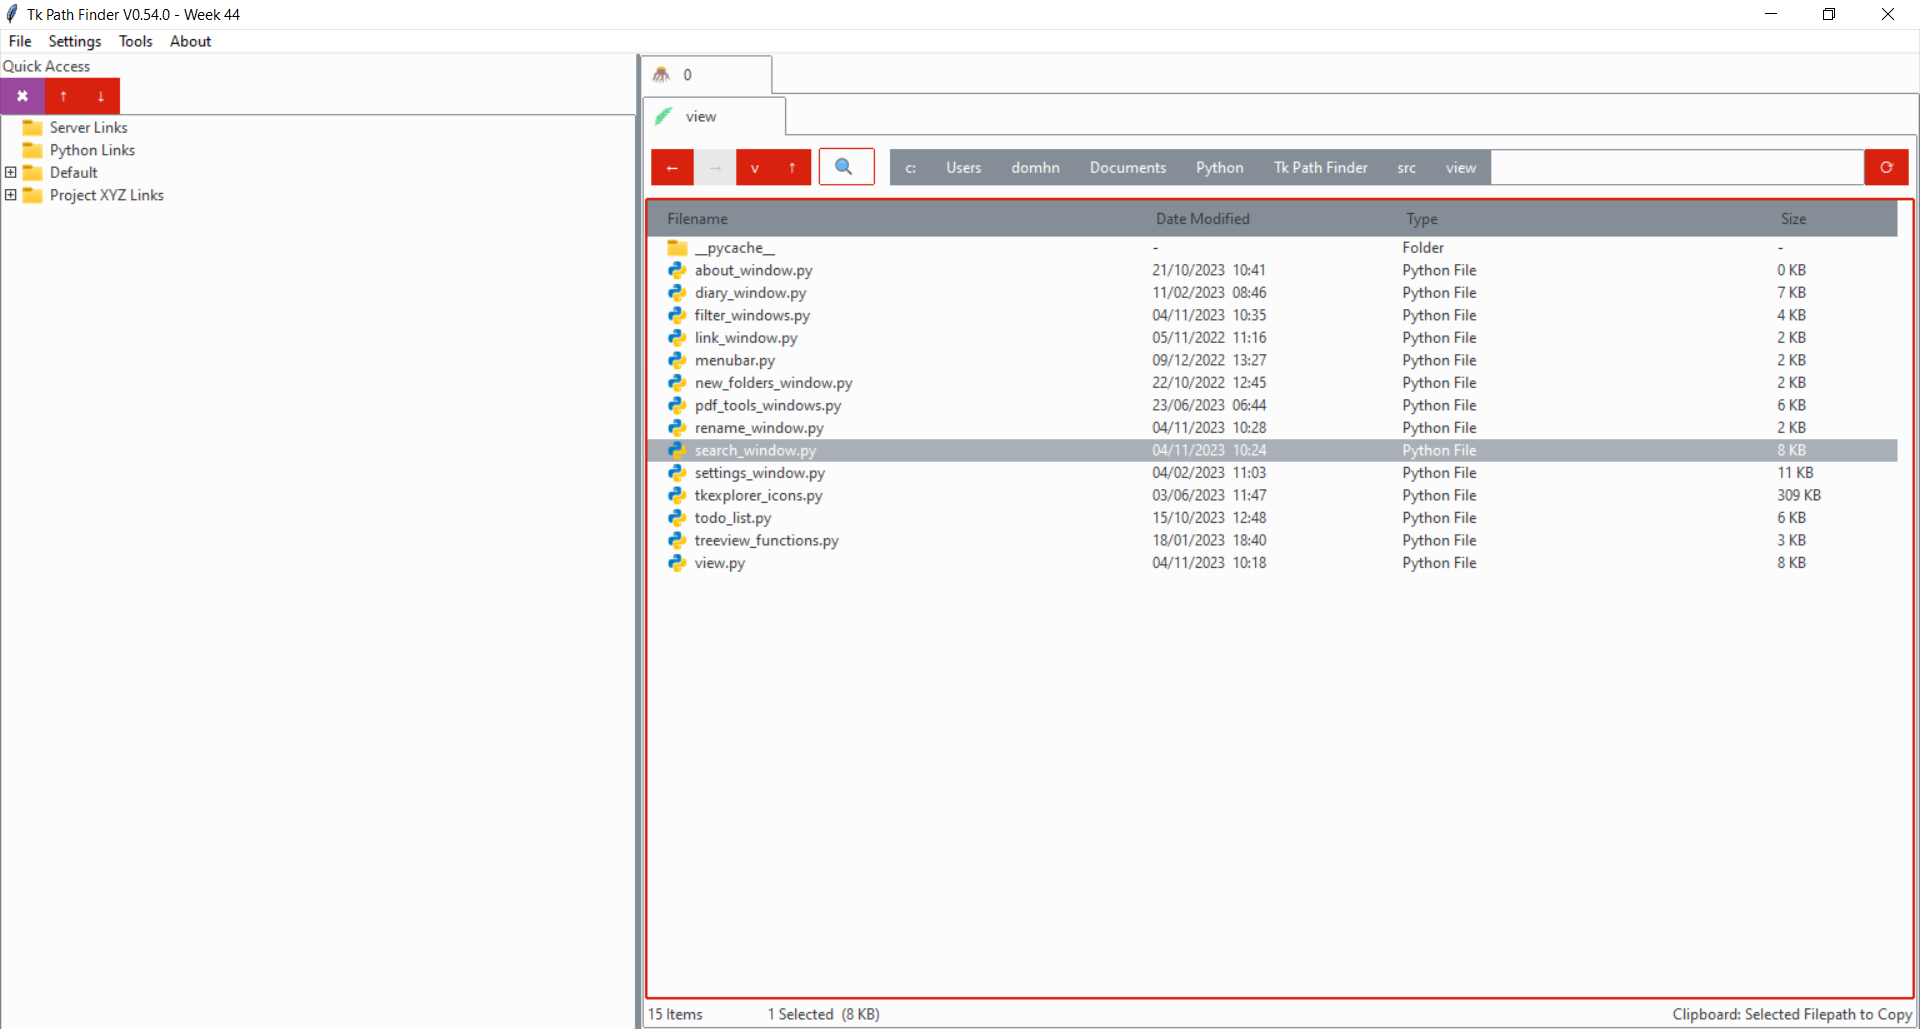
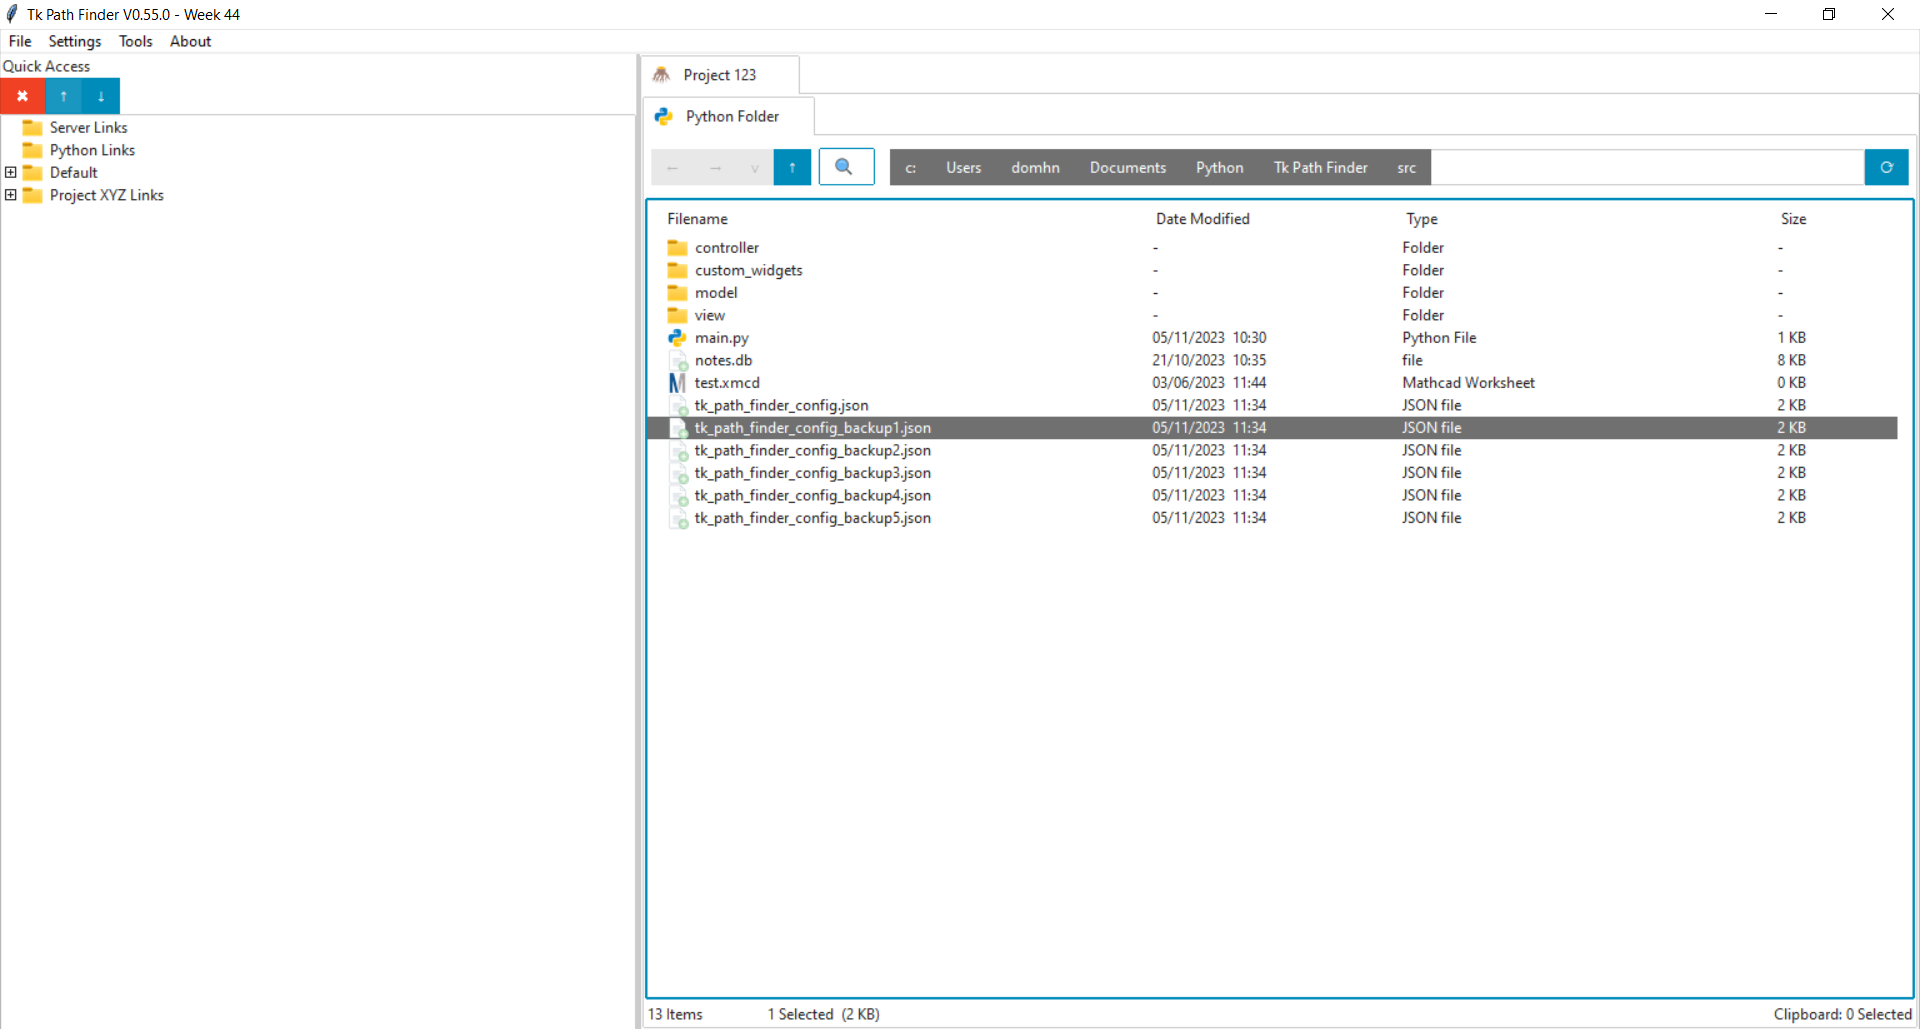
V0.55.0

Changed region(s): [[0.3125, 0.0622, 1.0, 1.0], [0.0, 0.0622, 0.0625, 0.1244]]

diff --git a/src/controller/controller.py b/src/controller/controller.py
@@ -18,7 +18,7 @@ from ttkbootstrap.themes import standard
 
 from model import config_file_manager, model
 from view import view, diary_window, filter_windows, new_folders_window, pdf_tools_windows, rename_window, settings_window
-from view import link_window, search_window, todo_list
+from view import link_window, search_window, todo_list, icon_window
 
 class Controller:
 	def __init__(self, root, parent, mainapp):
@@ -48,14 +48,14 @@ class Controller:
 			
 		return root_id
 			
-	def add_branch_tab(self, root_id, default_text=None, default_directory=None):
+	def add_branch_tab(self, root_id, default_text=None, default_directory=None, default_icon=None):
 		if default_directory is None:
 			default_directory = os.getcwd()
 			
 		# ----------------- ADD A SINGLE DEFAULT BRANCH TAB -----------------
-		id_key = self.model.add_branch_tab(root_id, default_text, default_directory)
+		id_key = self.model.add_branch_tab(root_id, default_text, default_directory, default_icon)
 		
-		self.view.add_branch_tab(id_key, self.model.get_branch_tab_text(id_key), root_id)
+		self.view.add_branch_tab(id_key, self.model.get_branch_tab_text(id_key), root_id, default_icon)
 		
 		# ----------------- UPDATE BRANCH TAB VIEW -----------------
 		self.view.update_branch_tab(copy.deepcopy(self.model.branch_tabs[id_key].assemble_view_data()))
@@ -489,11 +489,16 @@ class Controller:
 						for branch_id in session_data[root_id]["branch_tabs"].keys():
 							default_text = session_data[root_id]["branch_tabs"][branch_id]["text"]
 							default_directory = session_data[root_id]["branch_tabs"][branch_id]["directory"]
+
+							if "icon" in session_data[root_id]["branch_tabs"][branch_id].keys():
+								default_icon = session_data[root_id]["branch_tabs"][branch_id]["icon"]
+							else:
+								default_icon = None
 							
 							if default_directory in missing_directories:
 								default_directory = None
 								
-							self.add_branch_tab(new_root_id, default_text, default_directory)
+							self.add_branch_tab(new_root_id, default_text, default_directory, default_icon)
 	
 	def check_load_last_session_folders_exist(self, session_data):
 		missing_directories = []
@@ -610,8 +615,8 @@ class Controller:
 	def update_branch_tabs_order(self, root_id, branch_tabs_order):
 		self.model.update_branch_tabs_order(root_id, branch_tabs_order)
 	
-	def update_style(self, style):
-		self.view.switch_style(style)
+	def update_style(self, style, style_type):
+		self.view.switch_style(style, style_type)
 		self.model.style_updated(style)
 		
 	def duplicate_files(self, files, branch_id):
@@ -658,3 +663,13 @@ class Controller:
 				self.view.show_success("Successfully Extracted")
 			except Exception as e:
 				self.view.show_error(f"The Following Error Occured\n{str(e)}")
+
+	def change_tab_icon(self, root_id, branch_id):
+		icon_window.launch_icon_window(self)
+
+		if self.w.button == "ok":
+			branch_tab = self.view.branch_tabs[branch_id]
+			branch_tab.update_icon(self.w.extension)
+
+			self.model.branch_tabs[branch_id].icon_extension = self.w.extension
+			self.model.update_branch_tab_session_data(branch_id)

diff --git a/src/view/view.py b/src/view/view.py
@@ -27,7 +27,11 @@ class View:
 		
 		menubar.setup_menubar(self)
 		
-		self.switch_style(self.style_name)
+		if self.style_name in self.themes["light"]:
+			style_type = "light"
+		else:
+			style_type = "dark"
+		self.switch_style(self.style_name, style_type)
 
 	def setup_variables(self):
 		self.known_file_types = {
@@ -62,6 +66,7 @@ class View:
 			".xlsx": self.excel_icon2,
 			".xmcd": self.mathcad_icon2,
 			".zip": self.zip_icon2,
+			".xxx": self.branch_icon2, # dummy extension, just intended to get the branch icon in this dict for change icon window
 		}
 		
 		self.root_tabs = {}
@@ -113,13 +118,16 @@ class View:
 
 		self.root_tabs[id] = tab
 		
-	def add_branch_tab(self, id, text, root_id):
+	def add_branch_tab(self, branch_id, text, root_id, default_icon):
 		root_tab = self.root_tabs[root_id]
 		
-		tab = branch_tab.BranchTab(self, id, root_tab)
+		tab = branch_tab.BranchTab(self, branch_id, root_tab)
 		root_tab.add_branch_tab(tab, text)
 		
-		self.branch_tabs[id] = tab
+		self.branch_tabs[branch_id] = tab
+
+		if default_icon is not None:
+			self.branch_tabs[branch_id].update_icon(default_icon)
 		
 	def setup_default_settings(self, config_data):
 		# --------------- PADX AND PADY ---------------
@@ -168,8 +176,9 @@ class View:
 		finally:
 			popup_menu.grab_release()
 
-	def switch_style(self, style):
+	def switch_style(self, style, style_type):
 		self.style_name = style
+		self.style_type = style_type
 		
 		try:
 			self.style = Style(style)
@@ -181,7 +190,8 @@ class View:
 				messagebox.showerror("Error", message=f"The following message occured {str(e)}")
 		
 		self.style.configure('Treeview', rowheight=18)
-		self.style.configure('Treeview.Heading', background=self.style.colors.secondary)
+		if style_type == "dark":
+			self.style.configure('Treeview.Heading', background=self.style.colors.secondary)
 		
 		# Update hover color in treeviews
 		for tab in self.branch_tabs.keys():
@@ -195,7 +205,8 @@ class View:
 		return answer
 		
 	def delete_all_tabs(self):
-		for root_id in self.root_tabs:
+		root_ids = list(self.root_tabs.keys())
+		for root_id in root_ids:
 			self.delete_root_tab(root_id)
 		self.root_tabs = {}
 		self.branch_tabs = {}	

diff --git a/src/custom_widgets/root_tab.py b/src/custom_widgets/root_tab.py
@@ -27,10 +27,13 @@ class RootTab(ttk.Frame):
 		branch_id = tab_object.branch_id
 		
 		popup_menu = tk.Menu(event.widget, tearoff=0)
-		popup_menu.add_command(label="Add Branch Tab", command=lambda root_id=self.root_id: self.view.controller.add_branch_tab(root_id), image=self.view.branch_icon2, compound='left')
-		popup_menu.add_command(label="Rename Branch Tab", command=lambda branch_id=branch_id: self.view.controller.rename_branch_tab(branch_id), image=self.view.edit_icon2, compound='left')
-		popup_menu.add_command(label="Delete Branch Tab", command=lambda root_id=self.root_id, branch_id=branch_id: self.view.controller.delete_branch_tab(root_id, branch_id), image=self.view.delete_icon2, compound='left')
-		popup_menu.add_command(label="Duplicate Branch Tab", command=lambda root_id=self.root_id, branch_id=branch_id: self.view.controller.duplicate_branch_tab(root_id, branch_id), image=self.view.duplicate_icon2, compound='left')
+		popup_menu.add_command(label="Add Branch Tab", command=lambda root_id=self.root_id: self.view.controller.add_branch_tab(root_id), image=self.view.branch_icon2, compound="left")
+		popup_menu.add_command(label="Rename Branch Tab", command=lambda branch_id=branch_id: self.view.controller.rename_branch_tab(branch_id), image=self.view.edit_icon2, compound="left")
+		popup_menu.add_command(label="Delete Branch Tab", command=lambda root_id=self.root_id, branch_id=branch_id: self.view.controller.delete_branch_tab(root_id, branch_id), image=self.view.delete_icon2, compound="left")
+		popup_menu.add_command(label="Duplicate Branch Tab", command=lambda root_id=self.root_id, branch_id=branch_id: self.view.controller.duplicate_branch_tab(root_id, branch_id), image=self.view.duplicate_icon2, compound="left")
+
+		popup_menu.add_separator()
+		popup_menu.add_command(label="Change Icon", command=lambda root_id=self.root_id, branch_id=branch_id: self.view.controller.change_tab_icon(root_id, branch_id))
 
 		try:
 			popup_menu.tk_popup(event.x_root, event.y_root, 0)

diff --git a/src/view/icon_window.py b/src/view/icon_window.py
@@ -1,0 +1,59 @@
+import tkinter as tk
+from tkinter import *
+from tkinter import ttk
+from tkinter.ttk import *
+from tkinter import messagebox
+
+def launch_icon_window(controller):
+	master = controller.mainapp.root
+	controller.w = IconWindow(master, controller.view)
+	master.wait_window(controller.w.top)
+
+class IconWindow(ttk.Frame):
+	def __init__(self, master, view):
+		super(IconWindow, self).__init__()
+		top=self.top=Toplevel(master)
+		top.grab_set()
+		self.view = view
+
+		self.top.title("Change Icon")
+
+		self.button = "cancel"
+		self.add_icons()
+
+		self.cancel_btn = ttk.Button(self.top, text="Cancel", width=10, style="danger.TButton", command=lambda button="cancel": self.cleanup(button))
+		self.cancel_btn.grid(row=2, column=7, padx=self.view.default_padx, pady=self.view.default_pady, sticky="ne")	
+
+	def add_icons(self):
+
+		icon_frame = LabelFrame(self.top, text="Select Icon")
+		icon_frame.grid(row=1, column=0, columnspan=8, padx=self.view.default_padx, pady=self.view.default_pady, sticky="ew")
+
+		col = 0
+		row = 0
+
+		icons_added = []
+		for extension in self.view.known_file_types.keys():
+			icon = self.view.known_file_types[extension]
+
+			if icon not in icons_added: # avoid duplicates
+				icons_added.append(icon)
+
+				if self.view.style_type == "dark":
+					style = "dark.TButton"
+				else:
+					style = "light.TButton"
+				icon_button = ttk.Button(icon_frame, image=icon, style=style, command=lambda button="ok", extension=extension: self.cleanup(button, extension))
+				icon_button.grid(row=row, column=col, padx=self.view.default_padx, pady=self.view.default_pady, sticky="nsew")
+
+				col += 1
+
+				if col == 8:
+					col = 0
+					row += 1
+
+	def cleanup(self, button, extension=None):
+		self.button = button
+		self.extension = extension
+
+		self.top.destroy()

diff --git a/src/model/model.py b/src/model/model.py
@@ -132,13 +132,13 @@ class Model:
 	def get_root_tab_text(self, root_id):
 		return self.root_tabs[root_id]["text"]
 		
-	def add_branch_tab(self, root_id, default_text=None, default_directory=None):
+	def add_branch_tab(self, root_id, default_text=None, default_directory=None, default_icon=None):
 		branch_id = self.gen_id()
 		
 		if default_directory is None:
 			default_directory = os.getcwd()
 		#self.branch_tabs[id] = {"id": id, "text": "branch", "current_directory": os.getcwd()}
-		self.branch_tabs[branch_id] = branch_tab_model.BranchTabModel(self, branch_id, default_directory, root_id, default_text)
+		self.branch_tabs[branch_id] = branch_tab_model.BranchTabModel(self, branch_id, default_directory, root_id, default_text, default_icon)
 		self.root_tabs[root_id]["branch_tabs"].append(branch_id)
 		
 		self.update_branch_tab_session_data(branch_id)
@@ -195,7 +195,7 @@ class Model:
 
 	def update_branch_tab_session_data(self, branch_id):
 		root_id = self.branch_tabs[branch_id].root_id
-		self.config_data["session_data"][root_id]["branch_tabs"][branch_id] = {"text": self.branch_tabs[branch_id].text, "directory": self.branch_tabs[branch_id].current_directory}
+		self.config_data["session_data"][root_id]["branch_tabs"][branch_id] = {"text": self.branch_tabs[branch_id].text, "directory": self.branch_tabs[branch_id].current_directory, "icon": self.branch_tabs[branch_id].icon_extension}
 		
 		config_file_manager.write_config_file(self)
 		

diff --git a/src/view/menubar.py b/src/view/menubar.py
@@ -29,10 +29,10 @@ def setup_menubar(view):
 	style_menu.add_cascade(label="Dark", menu=dark_style_menu)
 	
 	for s in view.themes["light"]:
-		light_style_menu.add_command(label=s, command=lambda style=s: view.controller.update_style(style))
+		light_style_menu.add_command(label=s, command=lambda style=s, style_type="light": view.controller.update_style(style, style_type))
 
 	for s in view.themes["dark"]:
-		dark_style_menu.add_command(label=s, command=lambda style=s: view.controller.update_style(style))
+		dark_style_menu.add_command(label=s, command=lambda style=s, style_type="dark": view.controller.update_style(style, style_type))
 
 	# ________ TOOLS ________
 	tools_menu = tk.Menu(menu, tearoff=0)

diff --git a/src/model/branch_tab_model.py b/src/model/branch_tab_model.py
@@ -7,15 +7,17 @@ import re
 from natsort import natsorted, ns, os_sorted
 
 class BranchTabModel:
-	def __init__(self, model, id_key, current_directory, root_id, default_text):
+	def __init__(self, model, id_key, current_directory, root_id, default_text, default_icon):
 		self.model = model
 		self.id_key = id_key
 		self.root_id = root_id
 		self.text = default_text
+		self.icon_extension = default_icon # for which icon is displayed on tab
 		self.setup_variables()
 		self.current_directory = current_directory
 		
 		self.list_directory(self.current_directory)
+
 	
 	def setup_variables(self):
 		if self.text is None:

diff --git a/src/main.py b/src/main.py
@@ -35,7 +35,7 @@ class MainApplication(ttk.Frame):
 		self.controller = controller.Controller(root, parent, self)
 		
 		# ----------------- VERSION -----------------------
-		self.version = "0.54.1"
+		self.version = "0.55.0"
 		
 		# ----------------- WEEK NUMBER -----------------------
 		year, week_num, day_of_week = datetime.date.today().isocalendar()

diff --git a/src/custom_widgets/branch_tab.py b/src/custom_widgets/branch_tab.py
@@ -375,3 +375,8 @@ class BranchTab(ttk.Frame):
 				popup_menu.tk_popup(event.x_root + 100, event.y_root + 25, 0)
 			finally:
 				popup_menu.grab_release()
+
+	def update_icon(self, extension):
+		icon = self.view.known_file_types[extension]
+		self.root_tab.notebook.tab(self, image=icon)
+

diff --git a/README.md b/README.md
@@ -9,6 +9,8 @@ The app is largely complete and does what I set out to achieve. I am continuing 
 
 Comments, feedback and questions are welcome.
 
+Icons taken from https://icons8.com/icons/set/gui
+
 ## Running the App
 To run, download the code, unzip the files and run the main.py file. You will need several python libraries installed which are listed below.
 
@@ -86,7 +88,8 @@ pip install PyPDF2
 
 ![Light_Theme](images/main_image_light_theme.PNG)
 
-![alt text](https://imgur.com/6sxzTjR.png)
+![Search](images/search_image.PNG)
+
 
 
 
